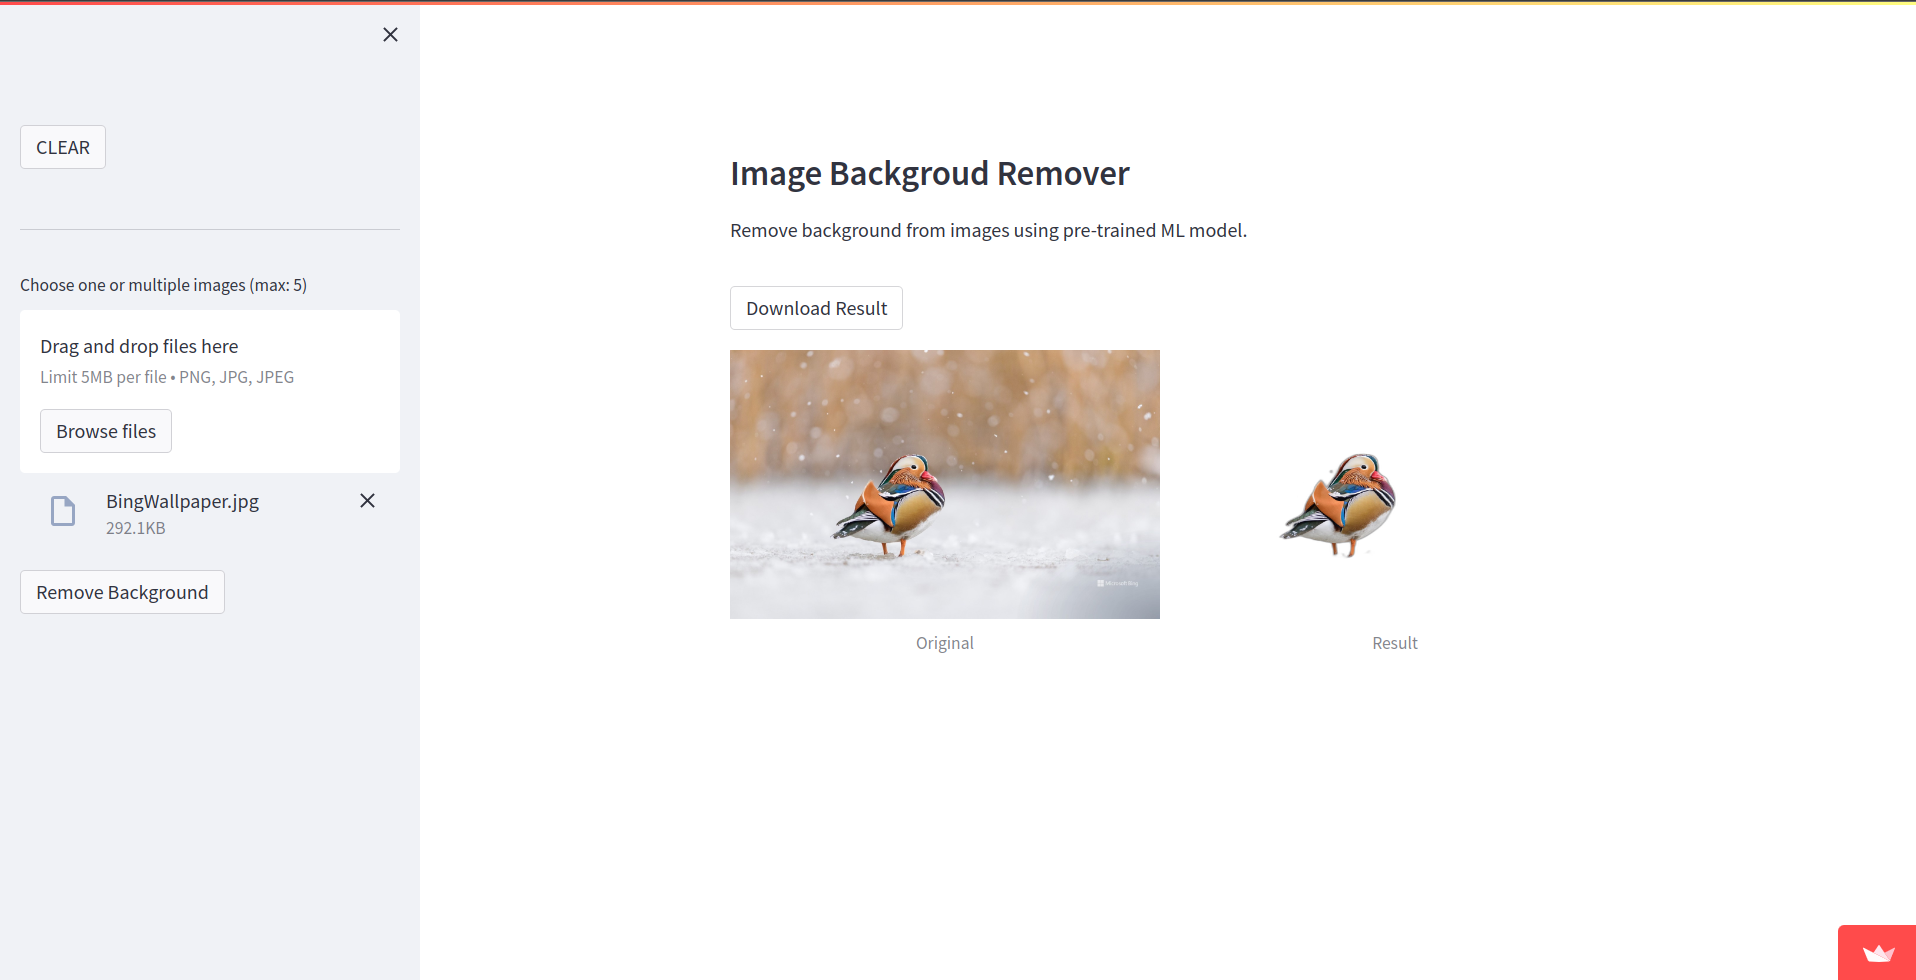
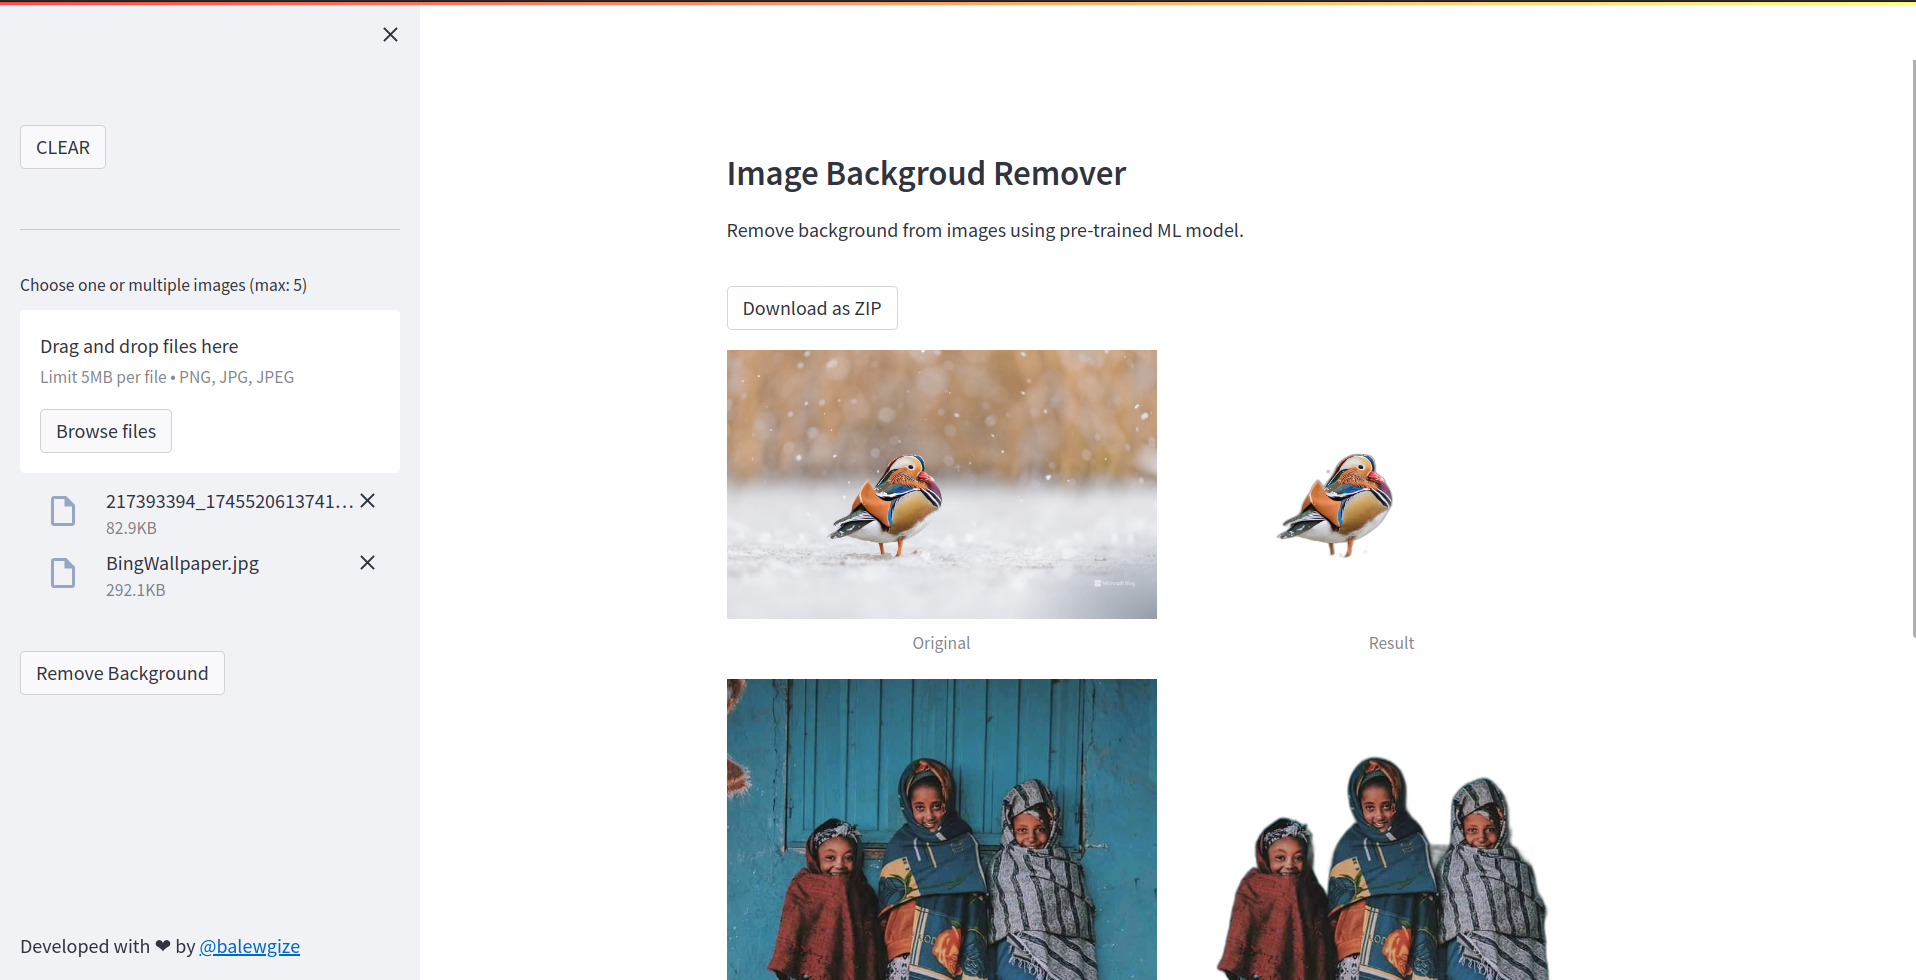
UI improvement and new screenshot

diff --git a/bg_remover.py b/bg_remover.py
@@ -44,6 +44,12 @@ def build_ui():
         accept_multiple_files=MULTIPLE_IMAGES_ALLOWED,
         key=st.session_state["key"],
     )
+    footer = """
+    <div style="position: fixed; bottom: 0;">
+    <p>Developed with ❤ by <a href="https://github.com/balewgize" target="_blank">@balewgize</a></p>
+    </div>"""
+    st.sidebar.markdown(footer, unsafe_allow_html=True)
+
     return uploaded_files
 
 
@@ -169,14 +175,9 @@ if __name__ == "__main__":
         initial_sidebar_state="expanded",
     )
     st.markdown(
-        "<style> #MainMenu {visibility: hidden;}</style>", unsafe_allow_html=True
+        "<style> footer {visibility: hidden;} #MainMenu {visibility: hidden;}</style>",
+        unsafe_allow_html=True,
     )
-    footer = """
-    <footer style="position: fixed; bottom: 0; right: 20px;">
-    <p>Developed with ❤ by <a href="https://github.com/balewgize" target="_blank">@balewgize</a></p>
-    </footer>"""
-    st.markdown(footer, unsafe_allow_html=True)
-
     session_id = str(uuid.uuid4())
     if "key" not in st.session_state:
         st.session_state["key"] = session_id
